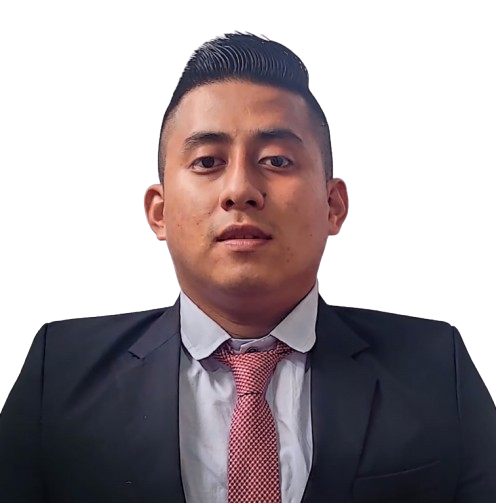
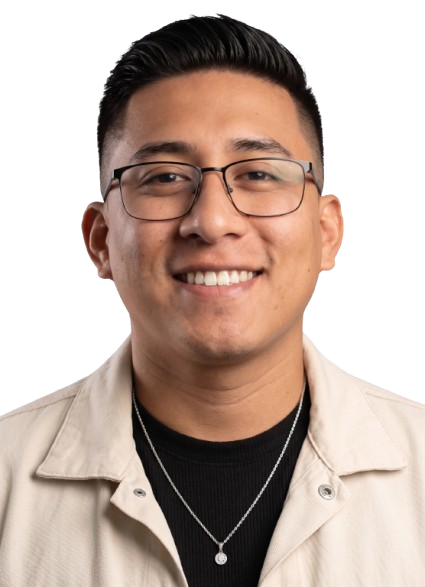
feat: actualizar README, mejorar estilos de imagen en el perfil y agregar nueva imagen

diff --git a/src/routes/cv/+page.svelte b/src/routes/cv/+page.svelte
@@ -462,10 +462,11 @@
       margin-right: 0.35rem;
    }
    .photo {
-      width: 92px;
-      height: 92px;
+      width: 84px;
+      aspect-ratio: 3 / 4;
       object-fit: cover;
-      border-radius: 10px;
+      object-position: top;
+      border-radius: 8px;
       flex-shrink: 0;
    }
 

diff --git a/src/lib/components/Profile.svelte b/src/lib/components/Profile.svelte
@@ -96,7 +96,7 @@
          <img
             src={image}
             alt={name}
-            class="size-32 rounded-xl object-cover ring-1 ring-line md:size-40"
+            class="aspect-[3/4] w-44 rounded-2xl object-cover object-top md:w-56"
          />
       </figure>
    </div>

diff --git a/README.md b/README.md
@@ -1,7 +1,7 @@
 <div align="center">
    <img src="./static/logo_primary.svg" height="80" width="auto" alt="charlsdev" />
    <h2><em>Portafolio</em> dinámico — SvelteKit + PostgreSQL</h2>
-   <p>SSR · panel admin · light/dark · export a PDF · esquema <a href="https://jsonresume.org/schema/">JSON Resume</a> (diseño base de <a href="https://github.com/midudev/minimalist-portfolio-json">midudev</a>)</p>
+   <p>SSR · panel admin · light/dark · export a PDF · esquema</p>
 </div>
 
 Portafolio personal: el CV vive en **PostgreSQL** y se edita desde `/admin`